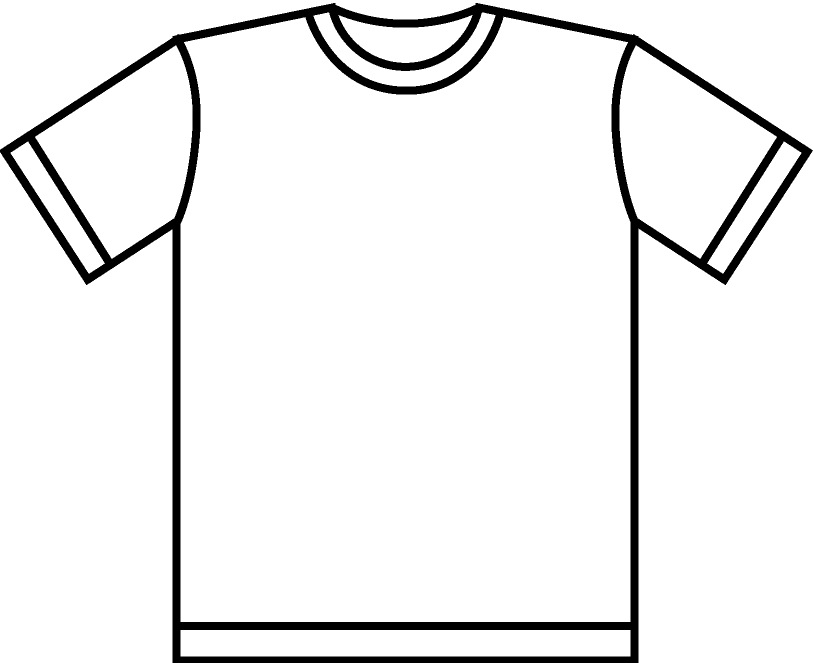
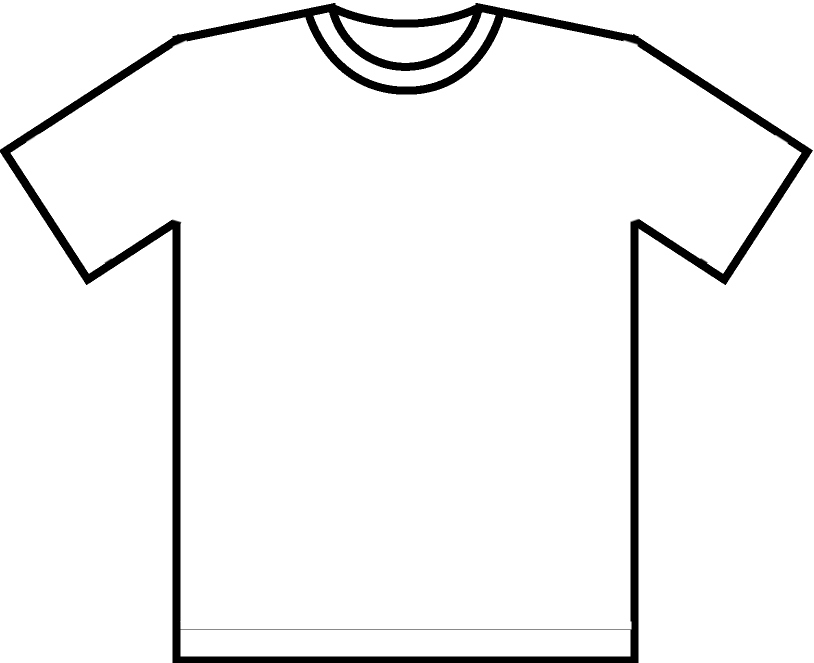
fix:デフォルトユニ画像修正,スタメン画像は削除

diff --git a/jleague-api/controller/generateImageController.py b/jleague-api/controller/generateImageController.py
@@ -20,7 +20,7 @@ TEAM_COLOR_UNIFORM_PATH = f"{RESOURCE_FOLDER_PATH}/team_color_uniform.png"
 FORMATION_IMAGE_PATH = f"{RESOURCE_FOLDER_PATH}/formation_image.png"
 
 
-PLAYER_IMAGE_WIDTH=80 #スタメン画像に表示するときのユニ画像の1辺
+PLAYER_IMAGE_WIDTH=90 #スタメン画像に表示するときのユニ画像の1辺
 PLAYER_IMAGE_HEIGHT=81 #スタメン画像に表示するときのユニ画像の1辺
 HALF_PLAYER_IMAGE_SIZE = int(PLAYER_IMAGE_WIDTH/2) #ユニ画像の1辺の半分。選手名描画の座標で使うが普通に2でわるとfloatになるのでここでintにしてる
 OFFSET_PLAYERNAME_Y_POSITION = 30 #ユニ画像からどれだけ上に選手名を描画するか
